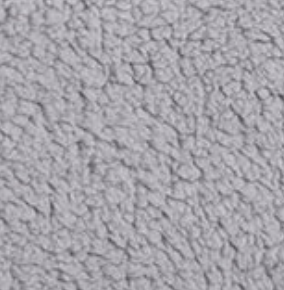
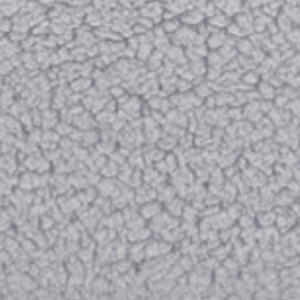
v0.7 - Default Swatch Update

diff --git a/Personalized-Cozee-PDP-Stepped-v2.dc.html b/Personalized-Cozee-PDP-Stepped-v2.dc.html
@@ -156,7 +156,7 @@ input::placeholder{color:rgb(198,198,198);}
               <sc-for list="{{ styles }}" as="st" hint-placeholder-count="2">
                 <div onClick="{{ st.onClick }}" style="display:flex;align-items:center;gap:16px;padding:8px 16px 8px 8px;border-radius:12px;cursor:pointer;background:rgb(255,255,255);box-shadow:{{ st.ring }};">
                   <div style="width:63px;height:63px;flex-shrink:0;border-radius:8px;overflow:hidden;position:relative;isolation:isolate;background:{{ st.tint }};box-shadow:inset 0 0 0 1px rgba(0,0,0,0.08);transition:background 200ms;">
-                    <div style="position:absolute;inset:0;background-size:cover;background-position:center;background-image:{{ st.bg }};filter:grayscale(1) brightness(1.7) contrast(0.85);mix-blend-mode:multiply;"></div>
+                    <div style="position:absolute;inset:0;background-size:cover;background-position:center;background-image:{{ st.bg }};filter:{{ st.fx }};mix-blend-mode:multiply;"></div>
                   </div>
                   <div style="flex:1;display:flex;flex-direction:column;gap:2px;min-width:0;">
                     <span style="font-weight:600;font-size:14px;line-height:1.4;color:rgb(54,54,54);">{{ st.name }}</span>
@@ -602,7 +602,7 @@ class Component extends DCLogic {
       chosen, notChosen: !chosen,
       styleName: chosen ? st.name : 'Select',
       styles: styles.map(x => ({ name: x.name, bg: x.thumb ? 'url(' + x.thumb + ')' : 'none',
-        tint: (chosen && x.id === st.id && curColor) ? curColor.css : 'rgb(255,255,255)', ring: chosen && x.id === st.id ? '0 0 0 2px rgb(53,117,202)' : 'inset 0 0 0 1px rgb(174,200,234)',
+        tint: (chosen && x.id === st.id && curColor) ? curColor.css : 'rgb(255,255,255)', fx: (chosen && x.id === st.id && curColor) ? 'grayscale(1) brightness(1.7) contrast(0.85)' : 'none', ring: chosen && x.id === st.id ? '0 0 0 2px rgb(53,117,202)' : 'inset 0 0 0 1px rgb(174,200,234)',
         price: this.fmt((chosen && x.id === st.id && s.color) ? this.priceFor(x, { color: s.color }) : x.basePrice),
         sample: !!x.sample,
         capsColor: x.sample ? 'rgb(142,142,142)' : 'rgb(43,94,161)', onClick: () => this.selectStyle(x.id) })),

diff --git a/README.md b/README.md
@@ -1,6 +1,6 @@
 # Personalized Cozee PDP – Stepped v2 (responsive prototype)
 
-Exported from the "Customizable Chair Design" canvas on 2026-11-12.
+Exported from the "Customizable Chair Design" canvas on 2026-11-13.
 
 - `Personalized-Cozee-PDP-Stepped-v2.dc.html` – the responsive prototype (desktop and mobile in one file).
 - `Personalized-Cozee-PDP-Stepped-v2-Mobile.dc.html` – 390px wrapper that loads the prototype at phone width.
